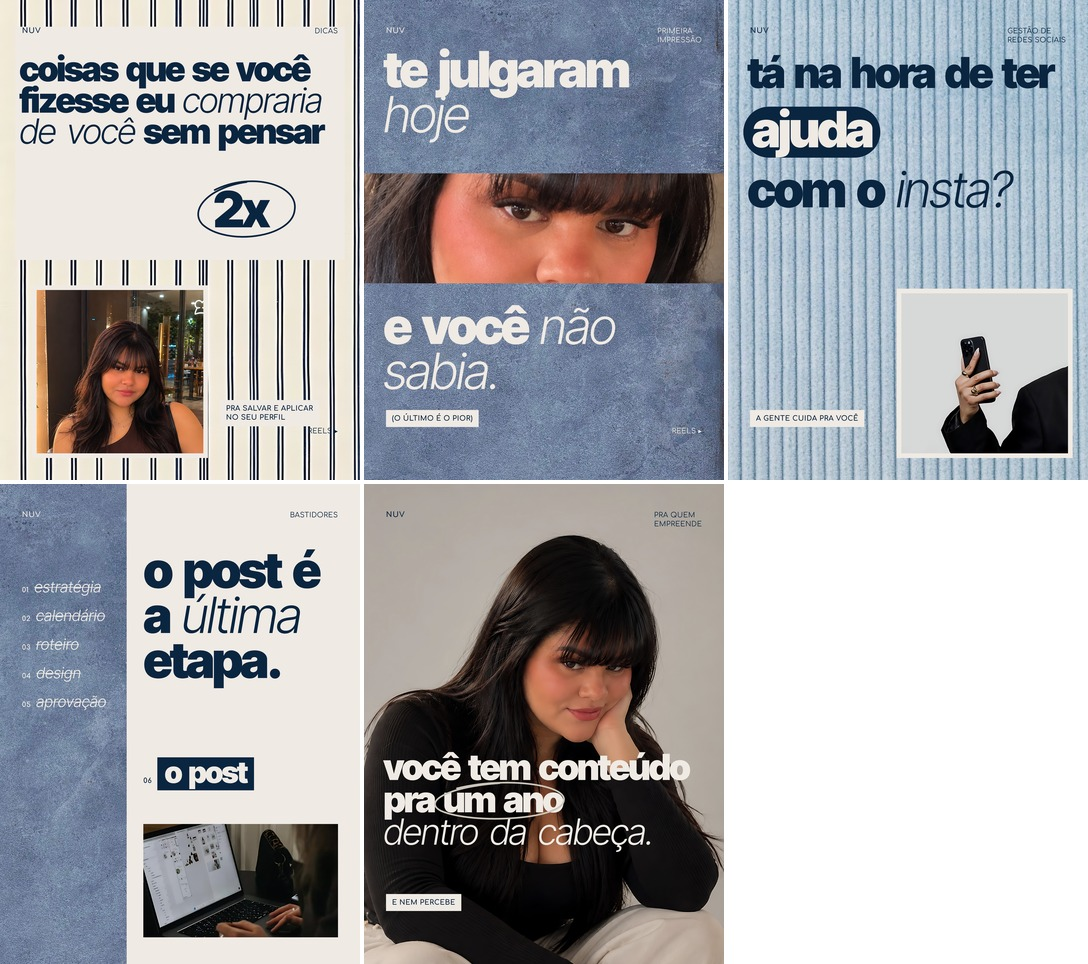
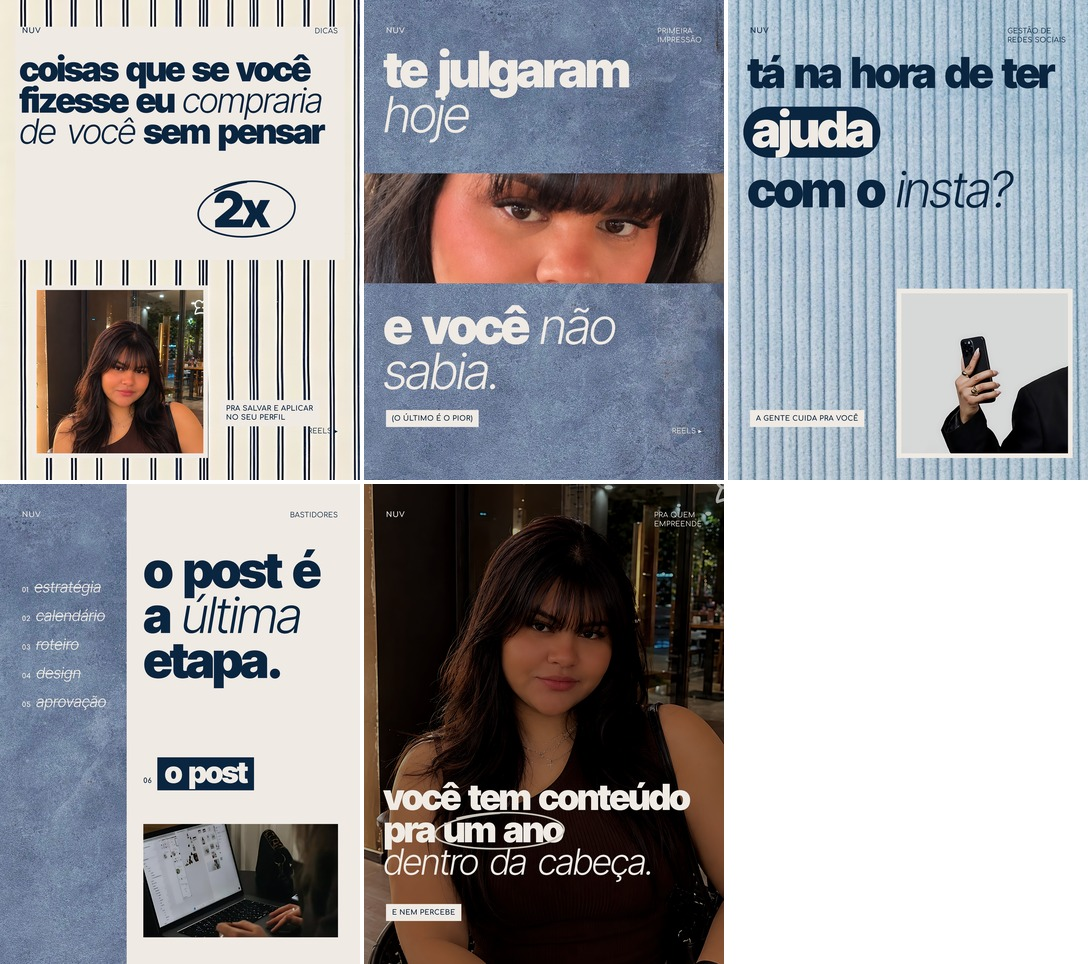
Reels cover 05: night cafe photo
Claude-Session: https://claude.ai/code/session_01EMPiZm8vwXxfPYZ7GnxN3Y

Changed region(s): [[0.3125, 0.4979, 0.6875, 1.0]]

diff --git a/nuv-capas-reels/index.html b/nuv-capas-reels/index.html
@@ -30,7 +30,7 @@ const IMG = {
   cafe: ['fotos-hd/cafe-mesa.jpg', 941, 1672], isaNote: ['fotos-hd/isa-notebook.jpg', 1086, 1448], isaRua: ['fotos-hd/isa-rua.jpg', 1086, 1448],
   maoCel: ['fotos-hd/mao-celular.jpg', 1038, 1294], escuro: ['fotos-hd/notebook-escuro.jpg', 736, 1104],
   risca: ['fotos-hd/textura-risca.jpg', 400, 800], veludo: ['fotos-hd/textura-veludo.jpg', 1200, 1600], cimento: ['fotos-hd/textura-cimento.jpg', 960, 1920],
-  estudio: ['fotos-hd/retrato-estudio.jpg', 941, 1672],
+  estudio: ['fotos-hd/retrato-estudio.jpg', 941, 1672], tablet: ['fotos-hd/tablet-cafe.jpg', 1122, 1402],
 };
 const photo = (key, w, h, fx = .5, fy = .5, zoom = 1, extra = '') => {
   const [src, iw, ih] = IMG[key];
@@ -83,10 +83,10 @@ const CAPAS = {
     `<div class="abs" style="left:430px;top:1060px;display:flex;gap:16px;align-items:baseline"><span class="s" style="font-weight:700">06</span><span class="H" style="font-size:90px;background:${C.navy};color:${C.off};padding:4px 22px 14px">o post</span></div>` +
     pic(430, 1260, 584, 340, 'escuro', .55, .5, 1.1),
   // 5 · conteúdo pra um ano na cabeça: retrato no estúdio, título branco sobre a blusa preta
-  '05_conteudo_pra_um_ano_na_cabeca': `<div class="abs" style="left:0;top:0;width:1080px;height:1920px;overflow:hidden">${photo('estudio', 1080, 1920, .5, .5, 1, 'filter:brightness(.9) contrast(1.08) saturate(.9)')}</div>` +
-    corners(C.navy, 'pra quem<br>empreende', '').replace(/<div class="abs s" style="left:66px;top:1520px[^>]*>[^<]*<\/div>/, '').replace(/<div class="abs s" style="right:66px;top:1520px[^>]*>[^<]*<\/div>/, '') +
-    T(1040, 108, C.off, `você tem conteúdo pra <span style="position:relative;display:inline-block">um ano<span style="position:absolute;left:-30px;top:-10px">${ELLIPSE(400, 130, C.beige)}</span></span><br><em>dentro da cabeça.</em>`) +
-    tag(66, 1470, 'e nem percebe'),
+  '05_conteudo_pra_um_ano_na_cabeca': `<div class="abs" style="left:0;top:0;width:1080px;height:1920px;overflow:hidden">${photo('isaNoite', 1080, 1920, .5, .5, 1, 'filter:brightness(.62) contrast(1.15) saturate(.85) sepia(.1)')}</div>` +
+    corners(C.off, 'pra quem<br>empreende', '').replace(/<div class="abs s" style="left:66px;top:1520px[^>]*>[^<]*<\/div>/, '').replace(/<div class="abs s" style="right:66px;top:1520px[^>]*>[^<]*<\/div>/, '') +
+    T(1130, 108, C.off, `você tem conteúdo pra <span style="position:relative;display:inline-block">um ano<span style="position:absolute;left:-30px;top:-10px">${ELLIPSE(400, 130, C.beige)}</span></span><br><em>dentro da cabeça.</em>`) +
+    tag(66, 1500, 'e nem percebe'),
 };
 
 Object.entries(CAPAS).forEach(([id, html]) => {
